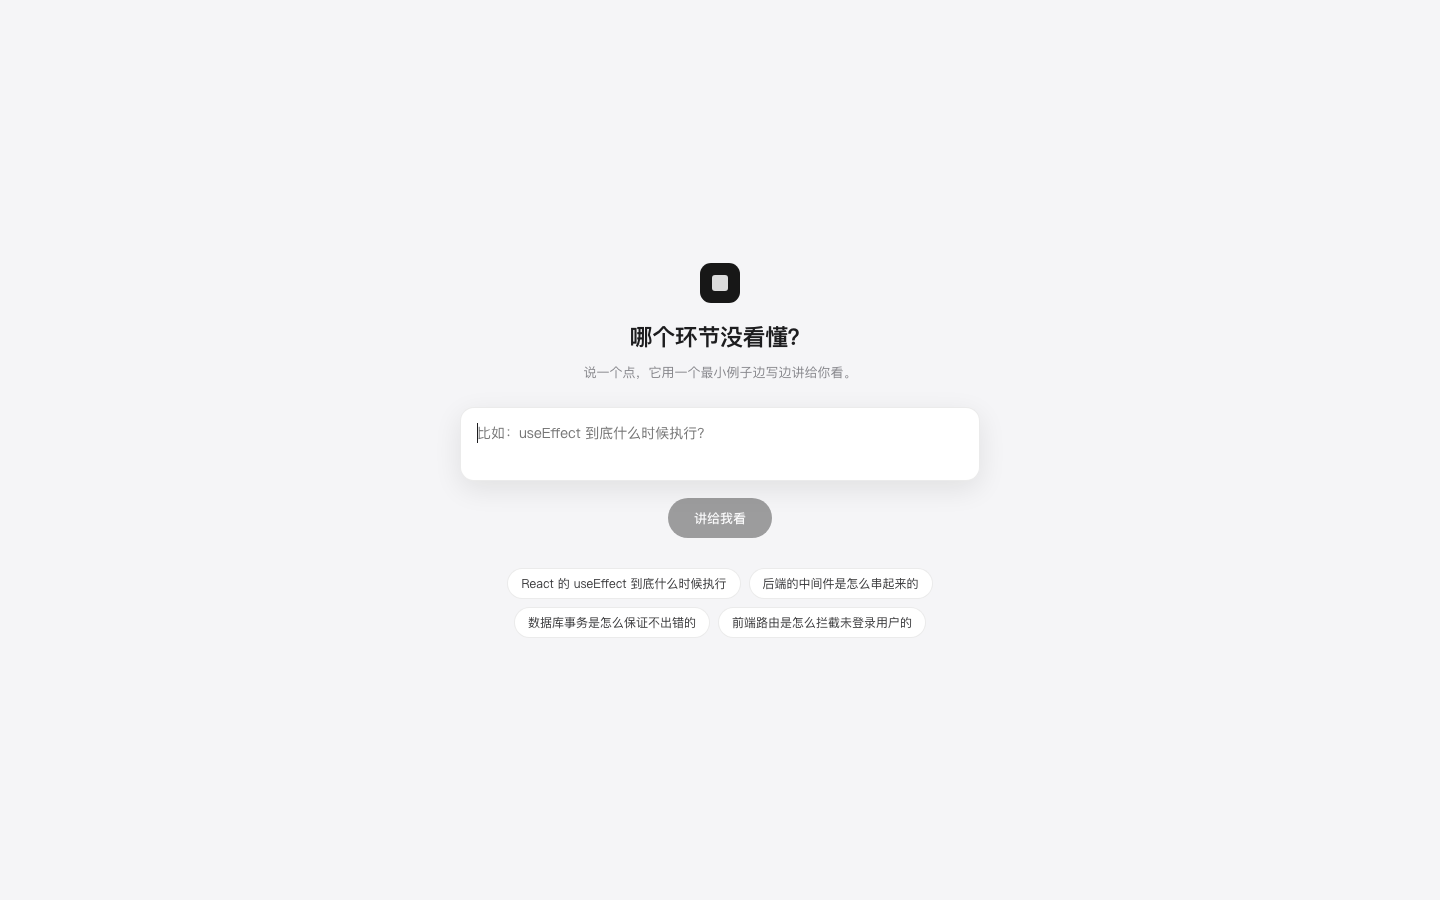
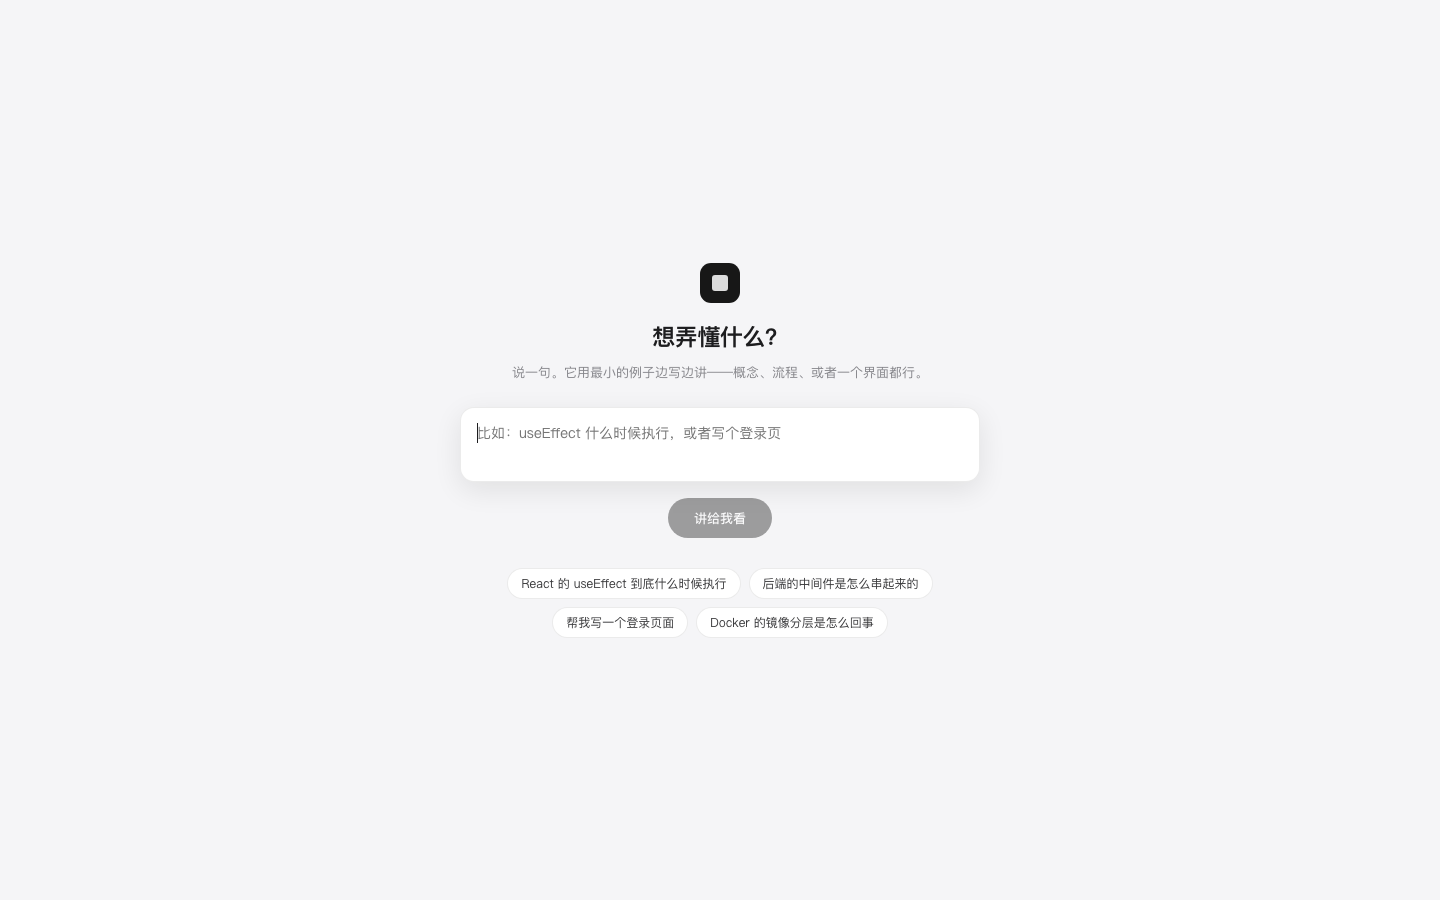
copy: 提问页文案跟着放开——从'哪个环节没看懂'改成'想弄懂什么'
示例也混了三种类型：概念（useEffect）、流程（中间件）、
界面（登录页）、概念（Docker 镜像分层）。

Changed region(s): [[0.375, 0.3422, 0.625, 0.4356], [0.375, 0.6844, 0.625, 0.7156], [0.4062, 0.4667, 0.5312, 0.4978]]

diff --git a/web/src/App.tsx b/web/src/App.tsx
@@ -41,8 +41,8 @@ const EMPTY: Snapshot = {
 const EXAMPLES = [
   "React 的 useEffect 到底什么时候执行",
   "后端的中间件是怎么串起来的",
-  "数据库事务是怎么保证不出错的",
-  "前端路由是怎么拦截未登录用户的",
+  "帮我写一个登录页面",
+  "Docker 的镜像分层是怎么回事",
 ];
 
 function langOf(name: string) {
@@ -202,8 +202,8 @@ export default function App() {
       <div className="ask">
         <div className="ask-inner">
           <div className="ask-mark" />
-          <h1>哪个环节没看懂？</h1>
-          <p>说一个点，它用一个最小例子边写边讲给你看。</p>
+          <h1>想弄懂什么？</h1>
+          <p>说一句。它用最小的例子边写边讲——概念、流程、或者一个界面都行。</p>
 
           <textarea
             className="ask-input"
@@ -212,7 +212,7 @@ export default function App() {
             onKeyDown={(e) => {
               if ((e.metaKey || e.ctrlKey) && e.key === "Enter") void ask(question);
             }}
-            placeholder="比如：useEffect 到底什么时候执行？"
+            placeholder="比如：useEffect 什么时候执行，或者写个登录页"
             rows={2}
             autoFocus
           />
